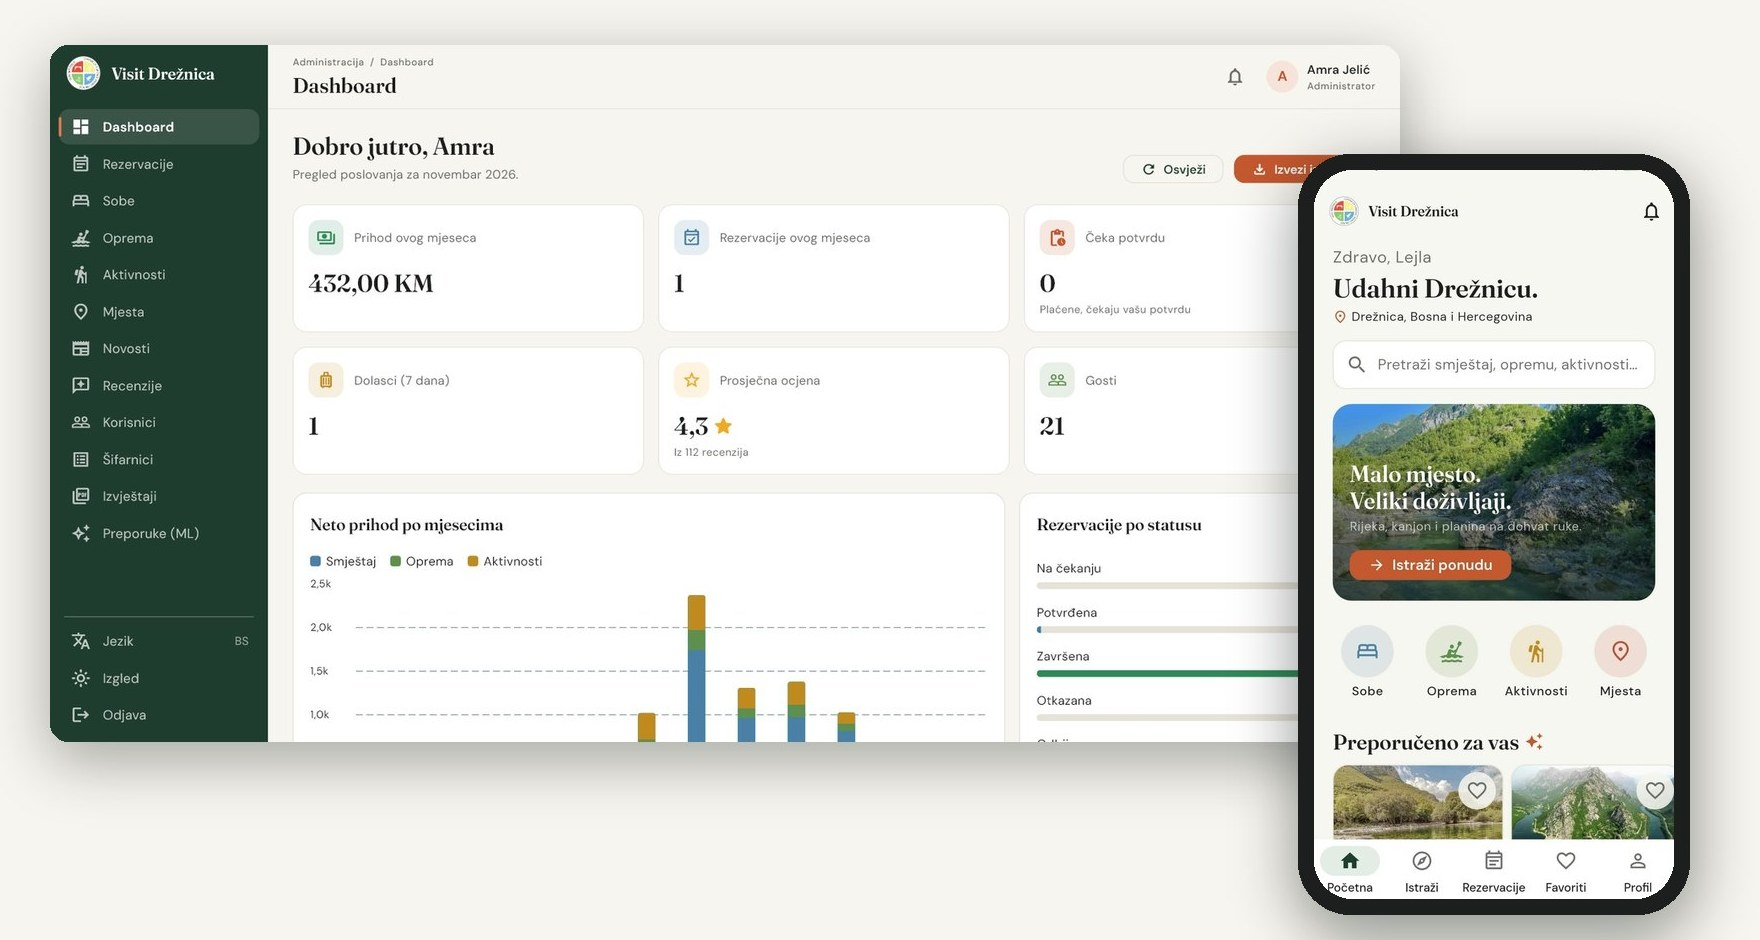
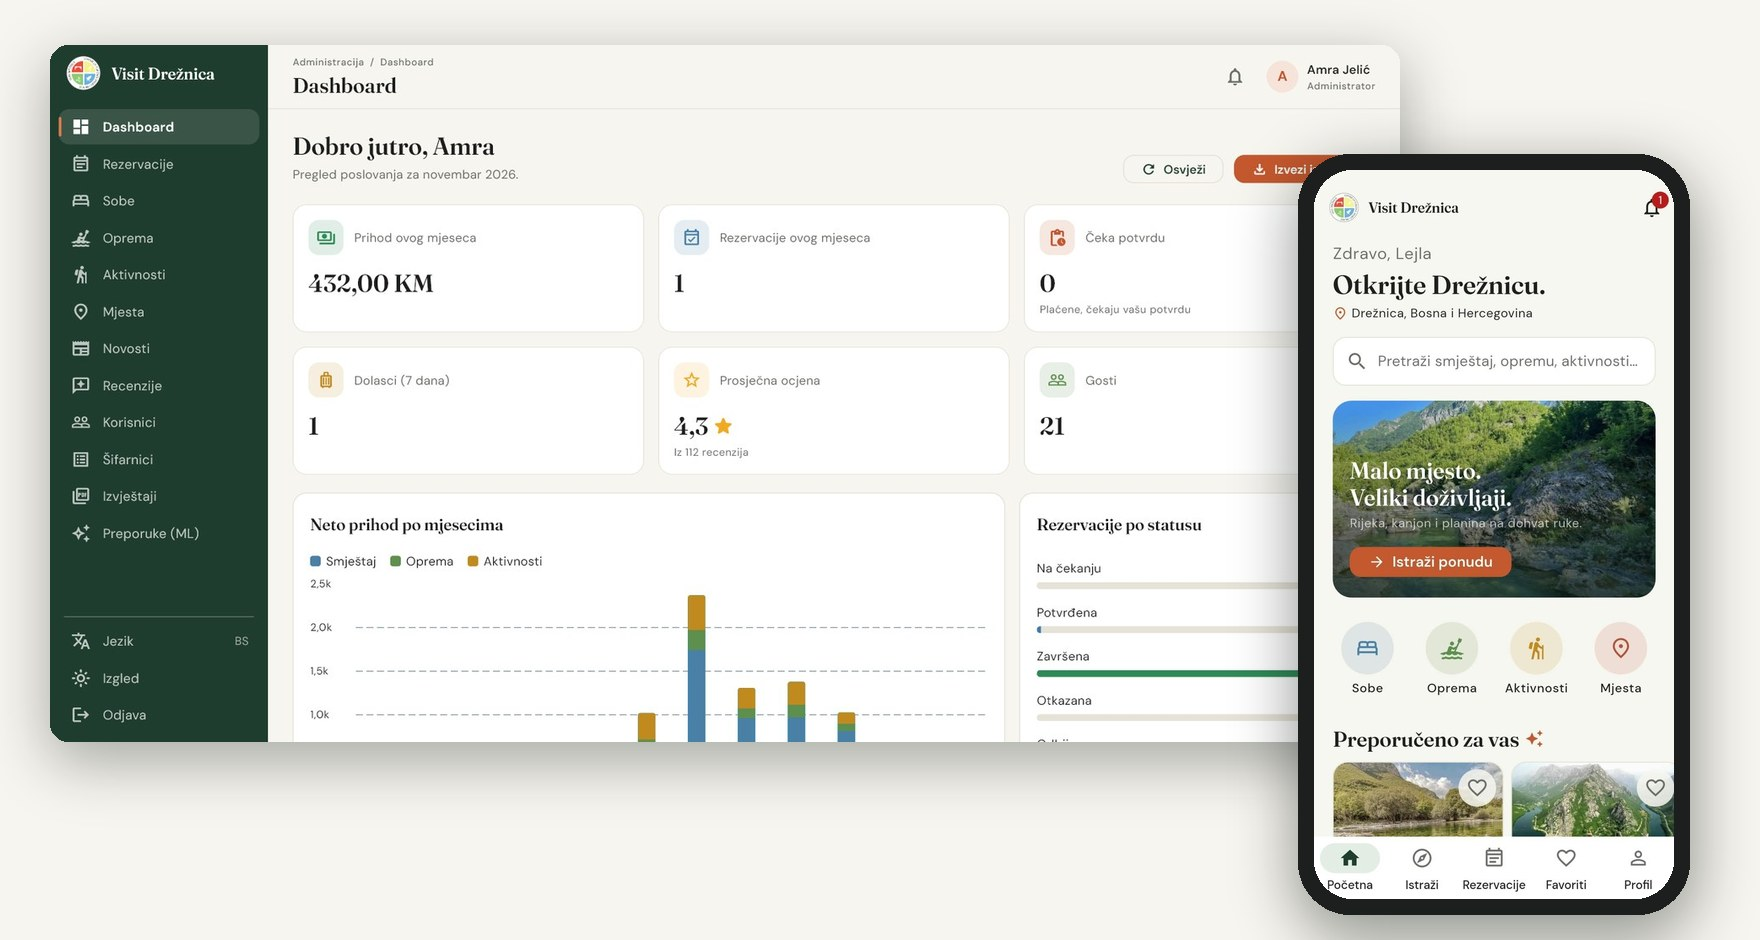
Početna: naslov "Otkrijte Drežnicu.", novi screenshotovi

diff --git a/UI/visitdreznica_core/lib/src/l10n/app_localizations.dart b/UI/visitdreznica_core/lib/src/l10n/app_localizations.dart
@@ -1054,7 +1054,7 @@ abstract class L10n {
   /// No description provided for @homeTitle.
   ///
   /// In bs, this message translates to:
-  /// **'Udahni Drežnicu.'**
+  /// **'Otkrijte Drežnicu.'**
   String get homeTitle;
 
   /// No description provided for @homeLocation.

diff --git a/UI/visitdreznica_core/lib/src/l10n/app_localizations_en.dart b/UI/visitdreznica_core/lib/src/l10n/app_localizations_en.dart
@@ -529,7 +529,7 @@ class L10nEn extends L10n {
   }
 
   @override
-  String get homeTitle => 'Breathe in Drežnica.';
+  String get homeTitle => 'Discover Drežnica.';
 
   @override
   String get homeLocation => 'Drežnica, Bosnia and Herzegovina';

diff --git a/UI/visitdreznica_core/lib/src/l10n/app_localizations_bs.dart b/UI/visitdreznica_core/lib/src/l10n/app_localizations_bs.dart
@@ -526,7 +526,7 @@ class L10nBs extends L10n {
   }
 
   @override
-  String get homeTitle => 'Udahni Drežnicu.';
+  String get homeTitle => 'Otkrijte Drežnicu.';
 
   @override
   String get homeLocation => 'Drežnica, Bosna i Hercegovina';
